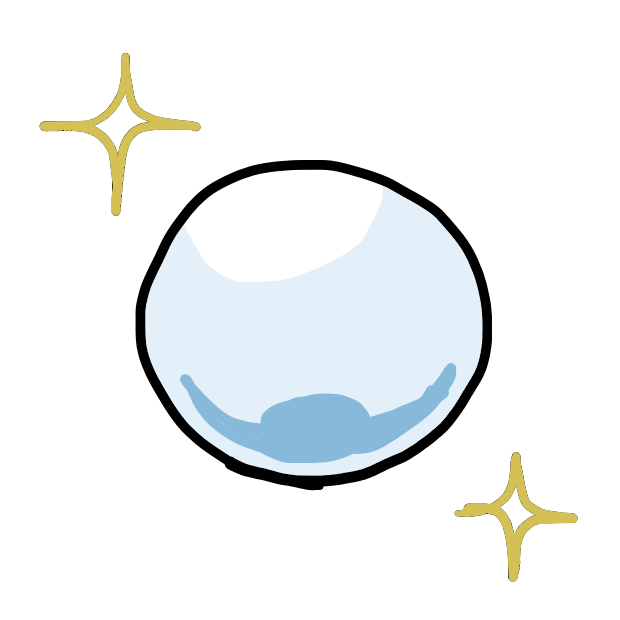
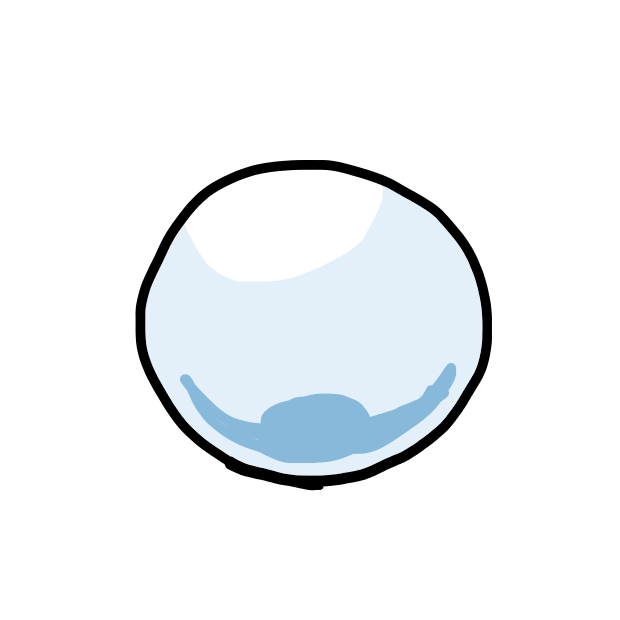
汗

Changed region(s): [[0.7355, 0.7355, 0.95, 0.95], [0.0613, 0.0919, 0.3371, 0.3677]]

diff --git a/Suishou.cpp b/Suishou.cpp
@@ -1,16 +1,26 @@
 #include "Suishou.h"
 #include "Enemy.h"
 
+namespace
+{
+	constexpr double SuishouSize = 160;
+	constexpr double SuishouCollisionSize = 55;
+	constexpr double InitialLife = 100;
+}
+
 Suishou::Suishou()
 	:
 	pos_{},
-	timerHit_{}
+	timerHit_{},
+	life_{ InitialLife }
 {
 }
 
 Suishou::Suishou(const Vec2& pos)
 	:
-	pos_{ pos }
+	pos_{ pos },
+	timerHit_{},
+	life_{ InitialLife }
 {
 }
 
@@ -20,6 +30,7 @@ void Suishou::update()
 
 void Suishou::draw() const
 {
+	// ダメージ時の振動、大きさ、色
 	Vec2 hitVibr{};
 	double scale = 1.0;
 	Color color = Palette::White;
@@ -34,9 +45,31 @@ void Suishou::draw() const
 		scale = 1.0 + 0.1 * Periodic::Sine1_1(1.2s);
 	}
 
-	TextureAsset(U"suishou")
-		.resized(160 * scale)
-		.drawAt(pos_ + hitVibr, color);
+	// 汗
+	if (life_ < 70.0)
+	{
+		Duration aseLoopTime = 0.2s;
+		if (life_ < 40.0) aseLoopTime = 0.14s;
+
+		const double t_ase = Periodic::Sawtooth0_1(aseLoopTime);
+		if (t_ase < 0.8)
+		{
+			TextureAsset(U"ase")
+				.resized(SuishouSize)
+				.drawAt(pos_ + Circular{ 70 + 30 * EaseOutSine(t_ase), 0_deg });
+		}
+	}
+
+	// 水晶
+	{
+		String asset = U"suishou";
+		if (life_ < 70.0) asset = U"suishou_ase1";
+
+		TextureAsset(asset)
+			.resized(SuishouSize * scale)
+			.drawAt(pos_ + hitVibr, color);
+	}
+
 
 	// Debug
 	if (collision())
@@ -49,7 +82,7 @@ Optional<Circle> Suishou::collision() const
 {
 	if (timerHit_.isRunning()) return none;
 
-	return Circle{ pos_, 55 };
+	return Circle{ pos_, SuishouCollisionSize };
 }
 
 void Suishou::hit(Enemy& enemy)
@@ -69,6 +102,8 @@ Vec2 Suishou::pos() const
 
 void Suishou::hit_()
 {
+	life_ -= 10.0;
+
 	if (not timerHit_.isRunning())
 	{
 		timerHit_.restart(0.4s);

diff --git a/Main.cpp b/Main.cpp
@@ -14,7 +14,9 @@ void Main()
 	// アセット
 	TextureAsset::Register(U"dorobou", U"image/dorobou.png");
 	TextureAsset::Register(U"suishou", U"image/suishou.png");
+	TextureAsset::Register(U"suishou_ase1", U"image/suishou_ase1.png");
 	TextureAsset::Register(U"kobushi", U"image/kobushi.png");
+	TextureAsset::Register(U"ase", U"image/ase.png");
 	TextureAsset::Register(U"room", U"image/room_yuka_flooring.png");
 
 	App app;

diff --git a/Suishou.h b/Suishou.h
@@ -25,4 +25,5 @@ private:
 
 	Vec2 pos_;
 	Timer timerHit_;
+	double life_;
 };